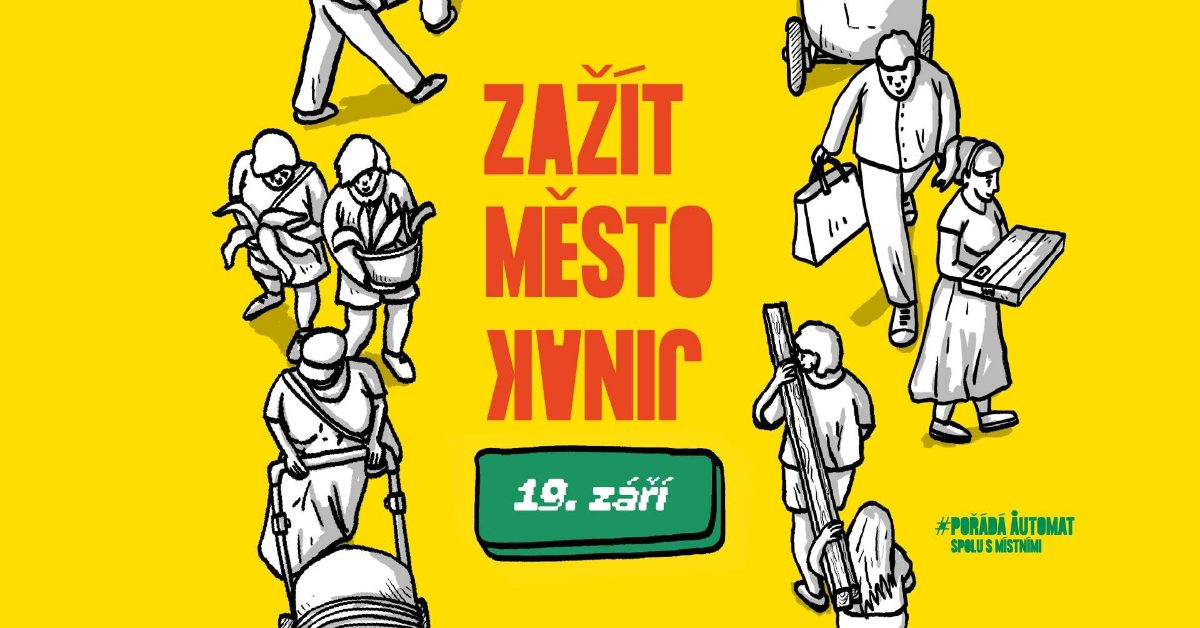
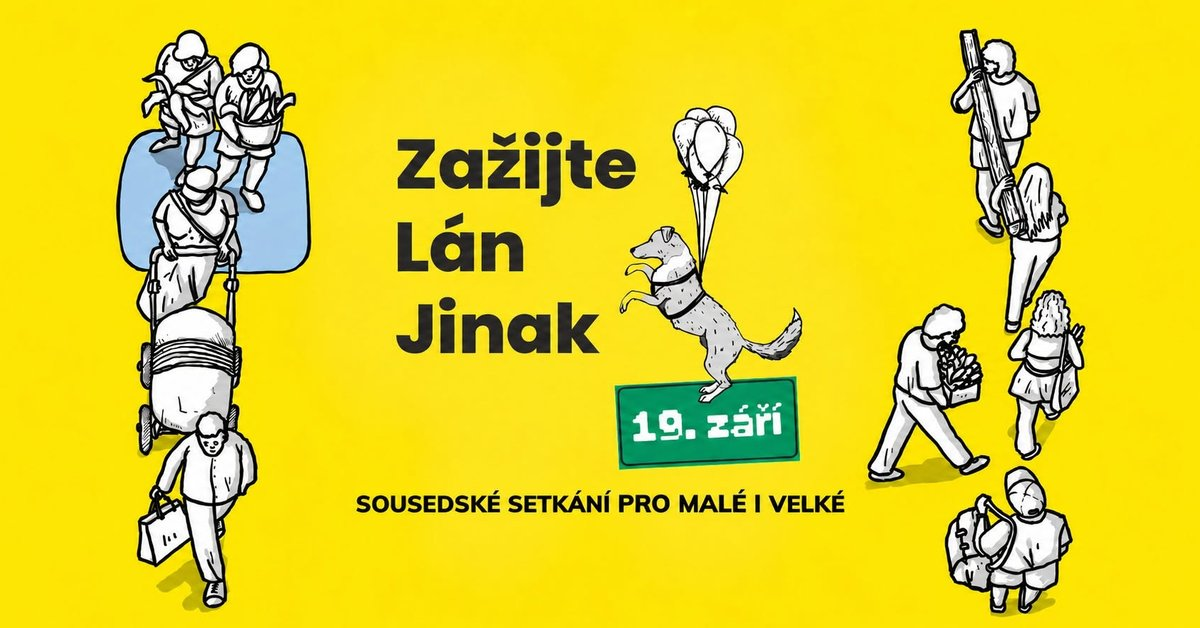
Aktualizace Zažít lán jinak 2026

diff --git a/index.html b/index.html
@@ -10,8 +10,8 @@
 <meta property="og:type" content="website">
 <meta property="og:locale" content="cs_CZ">
 <meta property="og:site_name" content="Bořislavský spolek">
-<meta property="og:title" content="Bořislavský spolek — sousedské akce okolo Bořislavky v Praze 6">
-<meta property="og:description" content="Zažít Lán Jinak 2026 v sobotu 19. 9. od 9.30 na plácku K lánu. A další sousedské akce po celý rok.">
+<meta property="og:title" content="Zažít Lán jinak 2026 — sobota 19. 9. na K lánu">
+<meta property="og:description" content="Zažít Lán jinak 2026 v sobotu 19. 9. od 10.00 na náměstíčku K lánu. A další sousedské akce po celý rok.">
 <meta property="og:url" content="https://borislavskyspolek.cz/">
 <meta property="og:image" content="https://borislavskyspolek.cz/assets/img/og.jpg">
 <meta property="og:image:width" content="1200">
@@ -57,7 +57,7 @@
   <section class="hero">
     <div class="page hero__grid">
       <div>
-        <h1>Sousedské akce okolo Bořislavky v Praze 6</h1>
+        <h1>Sousedské akce na Bořislavce a Na Dlouhém lánu.</h1>
         <p class="lead">Pořádáme je od roku 2020 pro sebe, sousedy a lidi z okolí.</p>
         <!-- Odkaz na nejbližší akci: při změně akce uprav i datum v druhém segmentu. -->
         <a class="capsule capsule--link" href="#novinky">
@@ -101,45 +101,45 @@
            ========================================================== -->
 
       <article class="event">
-        <img class="event__poster" src="assets/img/pozvanka-zmj-2026.webp" alt="Pozvánka Zažít město jinak, 19. září" loading="lazy" width="1400" height="733">
+        <img class="event__poster" src="assets/img/zazit-lan-jinak-2026.webp" alt="Pozvánka Zažijte Lán jinak, 19. září — sousedské setkání pro malé i velké" loading="lazy" width="1400" height="700">
         <div class="event__body">
-          <h3>Zažít Lán Jinak 2026</h3>
+          <h3>Zažít Lán jinak 2026</h3>
 
           <div class="facts">
             <span class="capsule">
               <span class="capsule__a">so 19. 9. 2026</span>
-              <span class="capsule__b">9.30–18.00</span>
+              <span class="capsule__b">10.00–18.00</span>
             </span>
-            <span class="tag">K lánu 561/8, Praha 6</span>
+            <span class="tag">K lánu 561/8, Praha 6 (náměstíčko pod Billou)</span>
           </div>
 
           <div class="prose">
-            <p>19. září. Plácek K Lánu. Červený vrch.</p>
-            <p class="stair">
-              <span>Bude brunch.</span>
-              <span class="i1">Bude hudba.</span>
-              <span class="i2">Budou Bombarďáci — jo, ta kapela.</span>
-              <span class="i3">Bude pivo.</span>
-            </p>
-            <p class="stair">
-              <span>Bude den,</span>
-              <span class="i1">Vyplatí se,</span>
-              <span class="i2">Vylézt z baráku</span>
-              <span class="i3">Ven!</span>
-            </p>
-            <p class="stair">
-              <span>Budeš tam.</span>
-              <span class="i1">Zažiješ s námi</span>
-              <span class="i2">Lán</span>
-              <span class="i3">Jinak 2026.</span>
-            </p>
-            <p class="stair">
-              <span>Procházíš jen okolo?</span>
-              <span>Zastav se. A hoď s námi slovo.</span>
-            </p>
+            <p>Pojďme společně zažít Lán jinak!</p>
+            <p>V sobotu 19. září se náměstíčko v ulici K Lánu (Praha 6, metro Bořislavka) promění v místo plné <strong>hudby, sousedských setkání, dobrého jídla a zábavy pro děti i dospělé</strong>.</p>
+            <p>Přijďte na chvíli, nebo na celý den. Čeká vás sousedský piknik, koncerty, improvizační divadlo, hry pro děti, malování na obličej, keramika i sousedský swap.</p>
           </div>
 
-          <a class="btn" href="https://www.facebook.com/events/2063083974627572/" target="_blank" rel="noopener">Sledovat na Facebooku</a>
+          <div class="prose prose--body">
+            <h4>Program</h4>
+            <ul class="program">
+              <li><b>10.00</b> Sousedský piknik, Kafe koláč a DJ Brunch</li>
+              <li><b>11.00</b> Wenndy Chmelíková: koncert ve stylu old jazz</li>
+              <li><b>12.00</b> KOPR: improvizační divadlo pro děti</li>
+              <li><b>14.00</b> Bombarďák: koncert pro děti i rodiče</li>
+              <li><b>15.30</b> Sandro Curatalo: koncert italského písničkáře</li>
+              <li><b>17.00</b> HoŠi: matfyzácký folk z Dejvic</li>
+            </ul>
+
+            <h4>Doprovodný program</h4>
+            <p>Hry pro děti, malování na obličej, prodej keramiky, stánky a sousedský swap.</p>
+
+            <h4>Jídlo a pití</h4>
+            <p>Sousedské koláče, párek v rohlíku, neapolská pizza, palačinky, pivo, domácí limonáda a prosecco.</p>
+
+            <p>Těšíme se na společný den se sousedy, přáteli i všemi, kdo chtějí poznat tuto část Prahy zase trochu jinak.</p>
+          </div>
+
+          <a class="btn" href="https://www.facebook.com/zazitlanjinak/" target="_blank" rel="noopener">Sledovat na Facebooku</a>
         </div>
       </article>
 

diff --git a/styles.css b/styles.css
@@ -221,6 +221,23 @@ h3{
   font-weight:400;line-height:1.45;max-width:46ch;
 }
 .prose--body p + p{margin-top:1.1em}
+.prose + .prose--body{margin-top:clamp(24px,4vw,36px)}
+
+/* Program akce: mezititulky a seznam s časy */
+.prose h4{
+  margin-top:1.6em;margin-bottom:.5em;
+  font-size:.8em;font-weight:700;
+  letter-spacing:.08em;text-transform:uppercase;
+}
+.prose h4:first-child{margin-top:0}
+.program{list-style:none;margin:0;padding:0}
+.program li{
+  display:grid;grid-template-columns:4ch 1fr;column-gap:.8em;
+  padding:.45em 0;border-bottom:1px solid color-mix(in srgb,var(--violet) 25%,transparent);
+}
+.program li:first-child{border-top:1px solid color-mix(in srgb,var(--violet) 25%,transparent)}
+.program b{font-weight:700;font-variant-numeric:tabular-nums}
+.program + h4{margin-top:1.8em}
 
 .stair span{display:block}
 .stair .i1{padding-left:1.2em}
